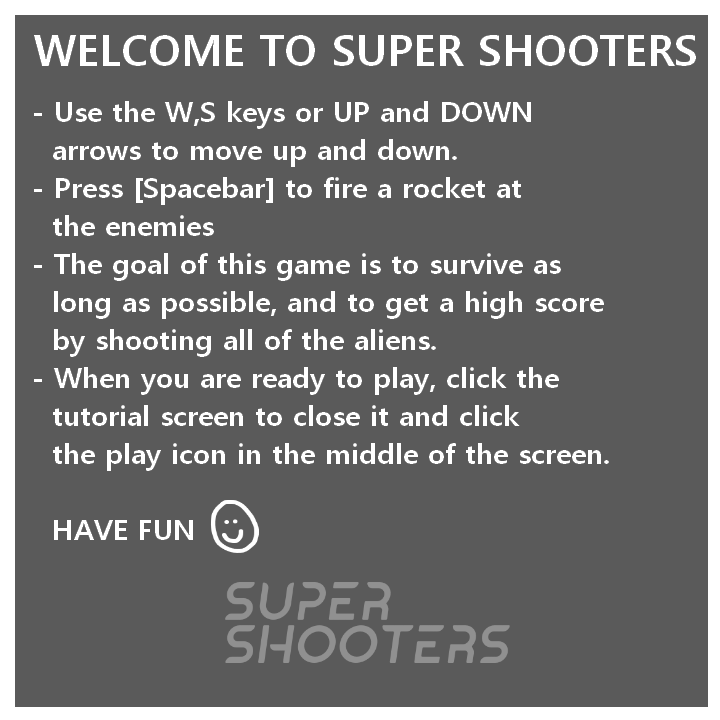
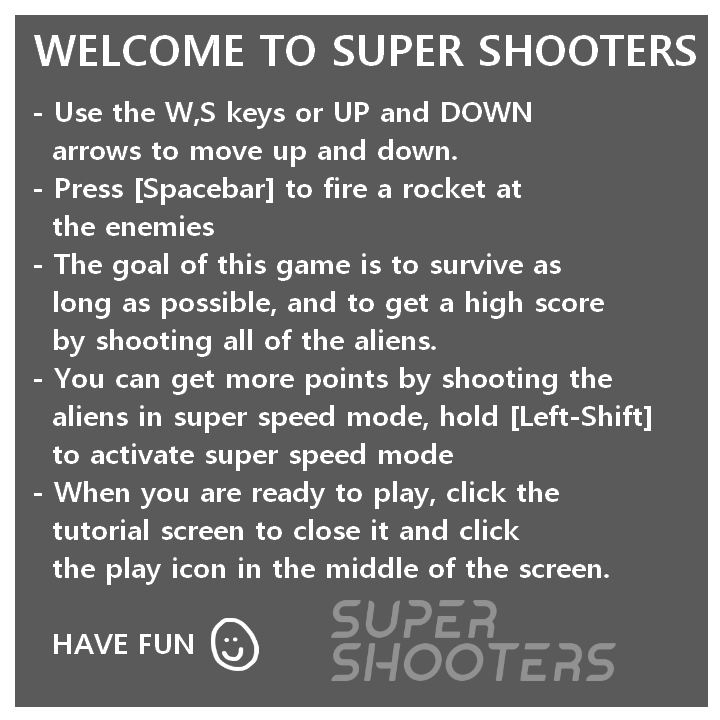
Super speed and health

Changed region(s): [[0.0611, 0.4889, 0.9167, 0.9472]]

diff --git a/js/gameScene.js b/js/gameScene.js
@@ -19,12 +19,15 @@ class GameScene extends Phaser.Scene {
     //ship
     this.ship = null;
     this.shipVel = 0;
+    this.superSpeed = false;
+    this.canZoom = true;
     //missiles
     this.canFire = true;
     //aliens  
     this.hasCollided = false;
     this.currentAliens = 0;
     this.maxAliens = 10;
+    // this.alienSpeed = 10;
     //score
     this.score = 0;
     this.scoreText = null;
@@ -32,6 +35,10 @@ class GameScene extends Phaser.Scene {
     //endText
     this.endText = null;
     this.endTextStyle = { font: '100px Arial', fill: '#ffffff', align: 'center' };
+    //other
+    this.health = 3;
+    this.currentTime = 0;
+    this.lastDamaged = 0;
   }
   init(data) {
     this.cameras.main.setBackgroundColor('#000000')
@@ -43,6 +50,11 @@ class GameScene extends Phaser.Scene {
     this.load.image('missile', '/assets/missile.png')
     this.load.image('smoke', '/assets/SmokePixel.png')
     this.load.image('alien', '/assets/alien.png')
+    //HealthbarImages
+    this.load.image('HB_Empty', './assets/Healthbar/EmptyHealthbar.png')
+    this.load.image('HB_Full', './assets/Healthbar/HealthbarFull.png')
+    this.load.image('HB_Half', './assets/Healthbar/HealthbarHalf.png')
+    this.load.image('HB_Low', './assets/Healthbar/HealthbarLow.png')
     //sound
     this.load.audio('missile', './assets/missile.mp3')
   }
@@ -63,6 +75,10 @@ class GameScene extends Phaser.Scene {
     this.background3 = this.add.image(0, 0, 'starBackground').setScale(2)
     this.background3.x = 540 * 1
     this.background3.y = 720
+    //healthbar
+    this.healthBar = this.add.image(0, 0, 'HB_Full').setScale(.6)
+    this.healthBar.x = 500
+    this.healthBar.y = 100
     //ship
     this.ship = this.physics.add.sprite(225, 1080 / 2, 'ship').setScale(0.7)
     //misslegroup
@@ -77,6 +93,7 @@ class GameScene extends Phaser.Scene {
     };
     //alien destroy
     this.physics.add.collider(this.missileGroup, this.alienGroup, function(missileCollide, alienCollide) {
+      this.Explosion(missileCollide.x, missileCollide.y, 'Small')
       this.createAlien()
       const sound = new Audio('./assets/Explosion.mp3');
       sound.loop = false;
@@ -90,26 +107,63 @@ class GameScene extends Phaser.Scene {
         this.currentAliens += 1;
         console.log(this.currentAliens);
       }
-      this.score += 1;
+      if (this.superSpeed == true){
+        this.score += 2;
+      } else{
+        this.score += 1;
+      }
       this.scoreText.setText('Score: ' + this.score.toString());
     }.bind(this));
 
     //End the game
     this.physics.add.collider(this.ship, this.alienGroup, function(shipCollide, alienCollide) {
-      stopMusic();
-      this.canFire = false;
-      const sound = new Audio('./assets/Explosion.mp3');
-      sound.loop = false;
-      sound.volume = 1;
-      sound.play();
-      this.physics.pause()
-      shipCollide.destroy()
-      alienCollide.destroy()
-      this.score = 0
-      this.currentAliens = 0;
-      this.endText = this.add.text(1920 / 4, 1080 / 2.5, 'Game Over!\nClick to try again', this.endTextStyle)
-      this.endText.setInteractive(({ useHandCursor: true }))
-      this.endText.on('pointerdown', () => this.scene.start('gameScene'))
+      //Checking to see if the ship can be damaged
+      if (this.currentTime - this.lastDamaged > 1000) {
+        //Explosion Effect
+        this.Explosion(this.ship.x, this.ship.y, "Big")
+        //Sound
+        const sound = new Audio('./assets/Explosion.mp3');
+        sound.loop = false;
+        sound.volume = 1;
+        sound.play();
+        //Damage cooldown
+        this.lastDamaged = this.currentTime;
+        //lower health
+        this.health -= 1
+        //Set healthsprite
+        if (this.health >= 3) {
+          this.healthBar.setTexture('HB_Full')
+        }
+        if (this.health == 2) {
+          this.healthBar.setTexture('HB_Half')
+        }
+        if (this.health == 1) {
+          this.healthBar.setTexture('HB_Low')
+        }
+        if (this.health <= 0) {
+          this.healthBar.setTexture('HB_Empty')
+        }
+        //Death
+        if (this.health <= 0) {
+          //Stop music
+          stopMusic();
+          //Stop player from shooting
+          this.canFire = false;
+          //Stop player from moving
+          this.physics.pause()
+          //Destroy alien and ship
+          shipCollide.destroy()
+          alienCollide.destroy()
+          //Reset Score
+          this.score = 0
+          this.currentAliens = 0;
+          //GameOver Text
+          this.health = 3
+          this.endText = this.add.text(1920 / 4, 1080 / 2.5, 'Game Over!\nClick to try again', this.endTextStyle)
+          this.endText.setInteractive(({ useHandCursor: true }))
+          this.endText.on('pointerdown', () => this.scene.start('gameScene'))
+        }
+      }
     }.bind(this));
 
     //smokegroup
@@ -122,6 +176,7 @@ class GameScene extends Phaser.Scene {
     audio.play();
   }
   update(time, delta) {
+    this.currentTime = time
     //updates 60 times a second
     //keybinds for movement (2 for up 2 for down depending on playstyle)
     const LeftKey = this.input.keyboard.addKey('W')
@@ -129,6 +184,7 @@ class GameScene extends Phaser.Scene {
     const RightKey = this.input.keyboard.addKey('S')
     const RightKey2 = this.input.keyboard.addKey('DOWN')
     const MissileKey = this.input.keyboard.addKey('SPACE')
+    const SuperSpeedKey = this.input.keyboard.addKey('SHIFT')
     //function to clamp the speed, so its fixed within a certain range
     const clampNumber = (num, a, b) => Math.max(Math.min(num, Math.max(a, b)), Math.min(a, b));
     //detect movement, and change velocities
@@ -138,6 +194,20 @@ class GameScene extends Phaser.Scene {
       this.shipVel = clampNumber(this.shipVel + 2, -9, 9)
     } else {
       this.shipVel = clampNumber(this.shipVel * .9, -9, 9)
+    }
+    //super Speed
+    if (SuperSpeedKey.isDown == true){
+      if (this.canZoom == true){
+        this.canZoom = false;
+        this.superSpeed = true;
+        const sound = new Audio('./assets/SuperSpeed.mp3');
+        sound.loop = false;
+        sound.volume = .5;
+        sound.play();
+      }
+    } else{
+      this.canZoom = true;
+      this.superSpeed = false;
     }
     //setting ship depth
     this.ship.setDepth(5);
@@ -166,9 +236,15 @@ class GameScene extends Phaser.Scene {
     }
 
     //scrolling background
-    this.background.x -= 10
-    this.background2.x -= 10
-    this.background3.x -= 10
+    if (this.superSpeed==true){
+      this.background.x -= 20
+      this.background2.x -= 20
+      this.background3.x -= 20
+    } else{
+      this.background.x -= 10
+      this.background2.x -= 10
+      this.background3.x -= 10
+    }
     //checking if backgrounds have moved too far back
     if (this.background.x < -980) {
       this.background.x = 540 * 6
@@ -196,6 +272,8 @@ class GameScene extends Phaser.Scene {
         if (Math.random() < .2) {
           const Smoke = this.physics.add.sprite(item.x - 15, item.y, 'smoke').setScale(0.1);
           Smoke.alpha = .5
+          Smoke.Xv = 0
+          Smoke.Yv = 0
           this.smokeGroup.add(Smoke);
         }
       }
@@ -206,6 +284,8 @@ class GameScene extends Phaser.Scene {
       item.rotation = Phaser.Math.DegToRad(Math.cos(time / 50) * 5 + 90)
       item.alpha -= 0.02
       item.setScale(item.scaleX + .001)
+      item.x += item.Xv
+      item.y += item.Yv
       if (item.alpha <= .05) {
         item.destroy()
       }
@@ -214,21 +294,39 @@ class GameScene extends Phaser.Scene {
     //moving Aliens
     this.alienGroup.children.each(function(alien) {
       alien.y += alien.yVel
-      alien.x -= 20
+      if (this.superSpeed==true){
+         alien.x -= 30
+      } else{
+         alien.x -= 15
+      }
       if (alien.y > 1080) {
-        alien.y = 5
+        alien.y = 5;
       }
       if (alien.y < 0) {
-        alien.y = 1075
+        alien.y = 1075;
       }
       if (alien.x < 0) {
-        alien.x = 1920
+        alien.x = 1920;
       }
-    });
+    }.bind(this));
   }
   RotateShip(degree) {
     //rotating in radians so that it doesn't look wonky
     this.ship.rotation = Phaser.Math.DegToRad(degree);
+  }
+  Explosion(x, y, size) {
+    for (let i = 0; i < 5; i++) {
+      const Explosion = this.physics.add.sprite(x, y, 'smoke')
+      if (size == "Big") {
+        Explosion.setScale(0.3);
+      } else {
+        Explosion.setScale(0.1);
+      }
+      Explosion.alpha = .8
+      Explosion.Xv = Phaser.Math.Between(0, 10)
+      Explosion.Yv = Phaser.Math.Between(-10, 10)
+      this.smokeGroup.add(Explosion);
+    }
   }
 }
 export default GameScene
